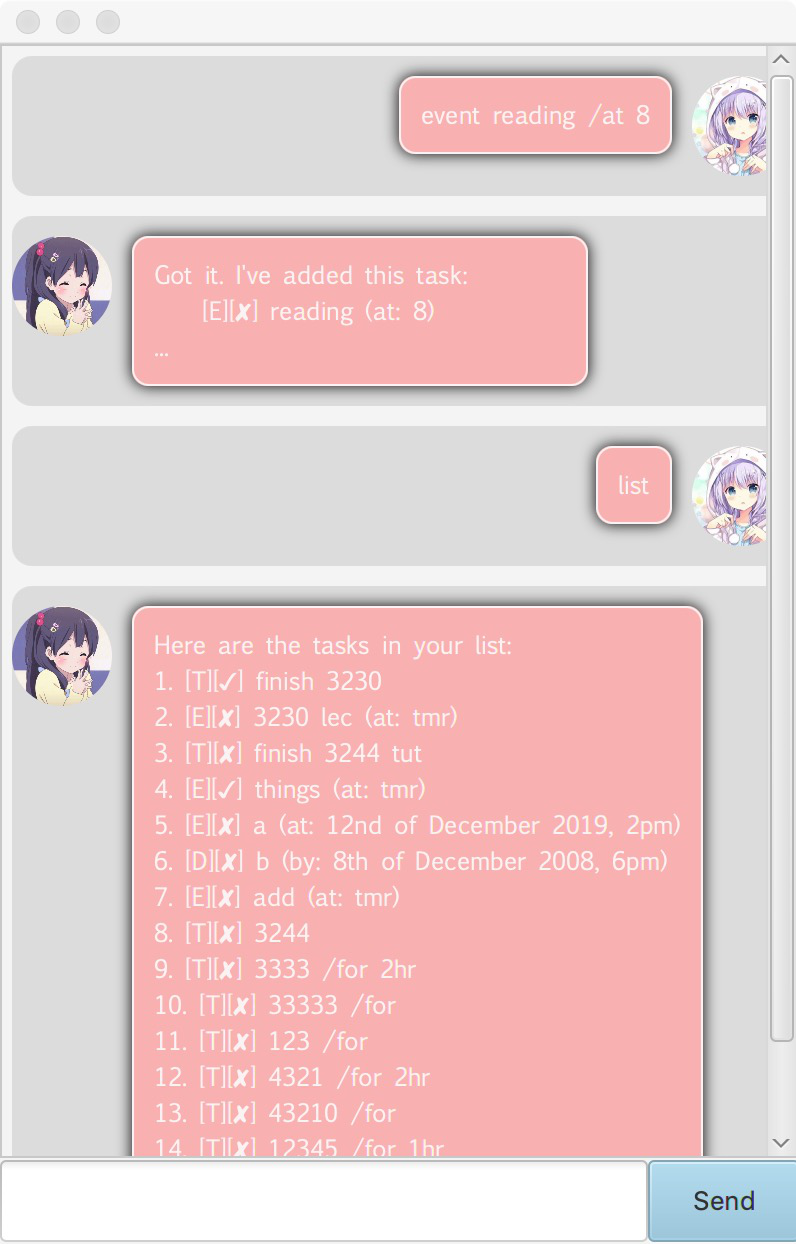
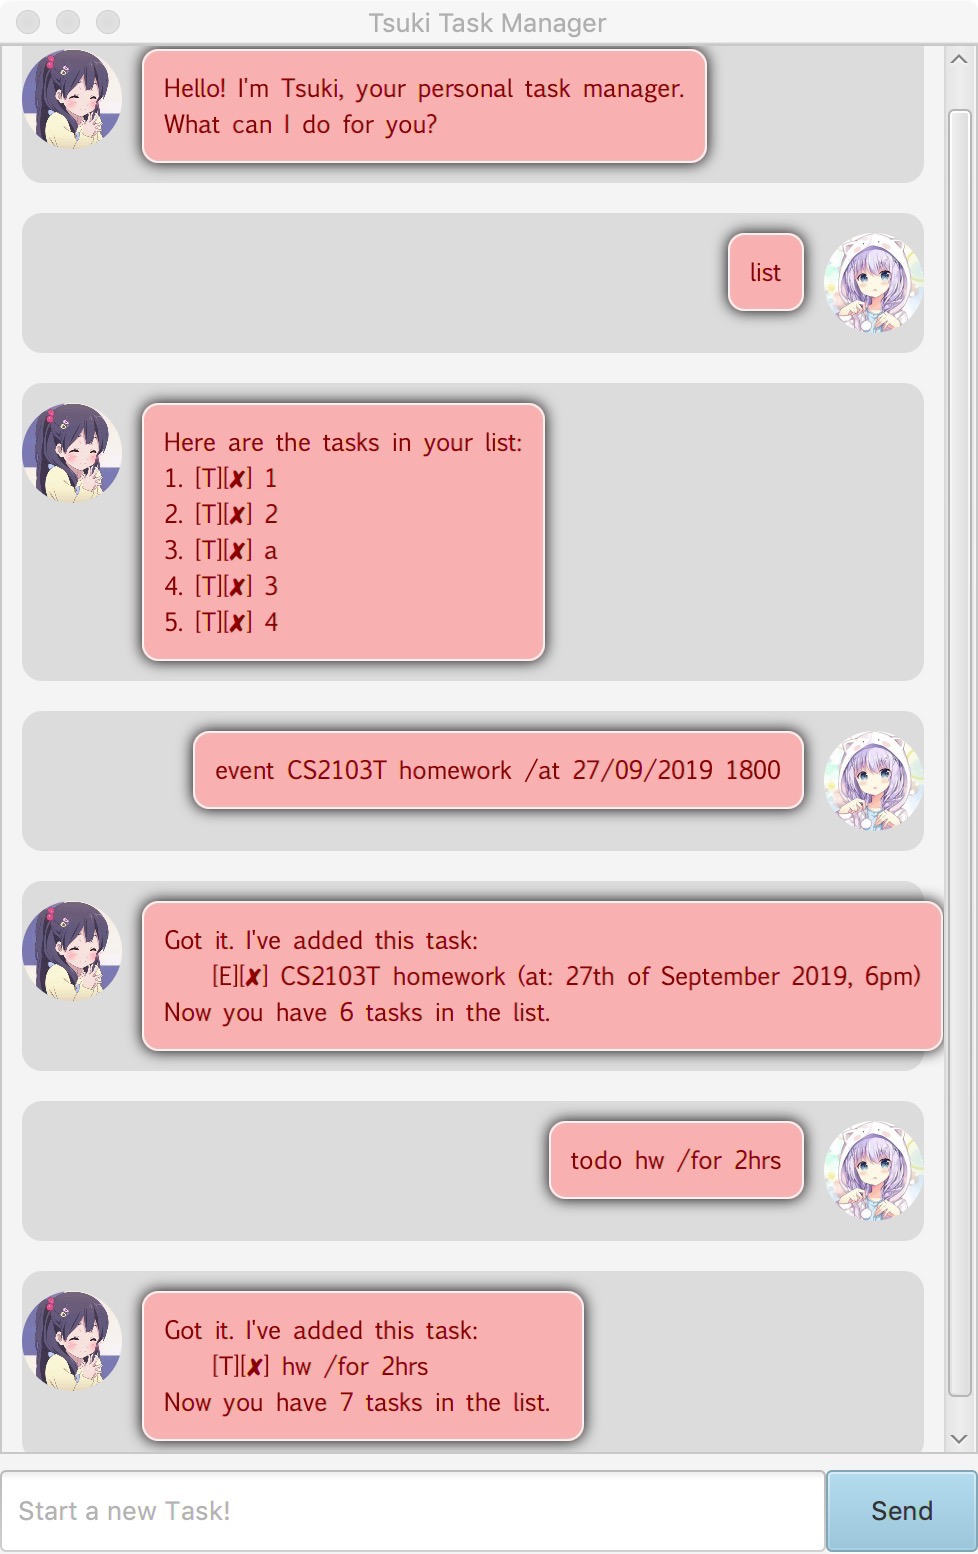
edited time command

diff --git a/src/main/java/dukepkg/Storage.java b/src/main/java/dukepkg/Storage.java
@@ -46,13 +46,15 @@ public class Storage {
         while (s.hasNext()) {
             String line = s.nextLine();
             String[] arr = line.split(" # ");
-            Task t;
+            Task t = null;
             if (arr.length == 3) {
                 t = new Todo(arr[2]);
             } else if (arr[0].equals("D")) {
                 t = new Deadline(arr[2], arr[3]);
-            } else {
+            } else if (arr[0].equals("E")){
                 t = new Event(arr[2], arr[3]);
+            } else if (arr[0].equals("T")){
+                t = new Time(arr[2], arr[3]);
             }
             if (Integer.parseInt(arr[1]) == 1) {
                 t.markDone();
@@ -74,7 +76,7 @@ public class Storage {
             String s = (t instanceof Todo) ? "T # " : ((t instanceof Event) ? "E # " : "D # ");
             s += t.isDone() ? "1 # " : "0 # ";
             s += t.getTask();
-            s += (t instanceof Todo) ? "" : ((t instanceof Event) ? " # " + ((Event) t).getAt() : " # " + ((Deadline) t).getBy());
+            s += t instanceof Todo ? "" : (t instanceof Time) ? " # " + ((Time) t).getDuration() : ((t instanceof Event) ? " # " + ((Event) t).getAt() : " # " + ((Deadline) t).getBy());
 
             fw.write(s + "\n");
         }

diff --git a/src/main/java/dukepkg/commands/Command.java b/src/main/java/dukepkg/commands/Command.java
@@ -40,18 +40,19 @@ public abstract class Command {
                 Parser.validateDeadlineFormat(arr);
                 t = Parser.standardizeDeadlineTime(arr);
                 return new DeadlineCommand(t);
-            } else {
+            } else if(arr[0].equals("event")){
                 Parser.validateEventFormat(arr);
                 t = Parser.standardizeEventTime(arr);
                 return new EventCommand(t);
+            } else if (arr[0].equals("time")) {
+                Parser.validateTimeFormat(arr);
+                t = Parser.constructTimeCommand(arr);
+                return new TimeCommand(t);
             }
-        }
-        if(arr[1].contains("/for")) {
-            Parser.validateTimeFormat(arr);
-            return new TimeCommand(t);
         } else {
             return new TodoCommand(t);
         }
+        return new TodoCommand(t);
     }
 
     /**

diff --git a/src/main/java/dukepkg/Parser.java b/src/main/java/dukepkg/Parser.java
@@ -26,6 +26,13 @@ public class Parser {
 
     }
 
+    public static Task constructTimeCommand(String[] arr) {
+        String[] timed_task = arr[1].trim().split("/for", 2);
+        Task t;
+        t = new Time(timed_task[0].trim(), timed_task[1].trim());
+        return t;
+    }
+
     private String getAction(String[] arr) {
         return arr[0];
     }
@@ -232,6 +239,7 @@ public class Parser {
                 case "todo":
                 case "deadline":
                 case "event":
+                case "time":
                     validateAddTaskCommandLength(arr);
                     return Command.getAddTaskCommand(arr);
                 case "find":

diff --git a/src/main/java/dukepkg/Time.java b/src/main/java/dukepkg/Time.java
@@ -1,0 +1,28 @@
+package dukepkg;
+
+public class Time extends dukepkg.Task{
+    private String duration = "";
+    /**
+     * Instantiates a new Time Task.
+     *
+     * @param task the content used to construct the task.
+     */
+    public Time (String task, String duration) {
+        super(task);
+        this.duration = duration;
+    }
+    /**
+     * Gets the duration within which the task must be done.
+     *
+     * @return the duration
+     */
+    public String getDuration() {
+        return duration;
+    }
+
+    @Override
+    public String toString() {
+        return "[T]" + super.toString() + " (for: " + this.duration + ")";
+    }
+
+}

diff --git a/src/main/java/dukepkg/ui/DialogBox.java b/src/main/java/dukepkg/ui/DialogBox.java
@@ -45,6 +45,7 @@ class DialogBox extends HBox {
         final Circle clip = new Circle(25, 25, 25);
         displayPicture.setClip(clip);
         displayPicture.setImage(img);
+        dialog.setMinSize(Label.USE_PREF_SIZE, Label.USE_PREF_SIZE);
         this.setBackground(new Background(new BackgroundFill(
                 Color.gray(0.865), new CornerRadii(10), new Insets(5, 5, 5, 5))));
         this.setSpacing(10);

diff --git a/docs/README.md b/docs/README.md
@@ -1,12 +1,15 @@
 # User Guide
+
 ## 1. Introduction
-Hi! Duke is a high school themed app that helps you organize your tasks, ranging from todos, events to deadlines. Specifically, Duke is optimized for those who prefer to work with a Command Line Interface (CLI) while still enjoys a pleasant Graphical User Interface (GUI). If you can type comfortably fast, Duke can get your bucket list management more lightweight and fun than traditional GUI apps. Interested? Jump to the section 2, `Quick Start` to get started.
+Hi! Tsuki Task Manager is a girl's school themed app that helps you organize your tasks, ranging from todos, events to deadlines. Specifically, Duke is optimized for those who prefer to work with a Command Line Interface (CLI) while still enjoys a pleasant Graphical User Interface (GUI). If you can type comfortably fast, Duke can get your bucket list management more lightweight and fun than traditional GUI apps. Interested? Jump to the section 2, `Quick Start` to get started.
+
+![Sample usage](Ui.png)
 
 ## 2. Quick Start
 1. Ensure you have Java `11` or above installed in your computer.
-2. Download the latest `duke-zj-0.2.0.jar` here.
+2. Download the latest `tsuki.jar` here.
 3. Copy the file to the folder you want to use as the home folder for your duke task manager.
-4. Open the terminal and type `java -jar duke-zj-0.2.0.jar` to start the app. The GUI should appear in a few seconds.
+4. Open the terminal and type `java -jar tsuki.jar` to start the app. The GUI should appear in a few seconds.
 5. Type the command in the command box and press `Enter` to execute it. <br />
   e.g. typing  `list` and pressing `Enter` will list all the current task stored in the database.
 
@@ -37,7 +40,20 @@ Got it! I've added this task:
 Now you have 1 task in the list.
 ```
 
-### 3.2 `deadline <task_content> /by <time>` - add an deadline
+### 3.2 `time <task_content> /for <duration>` - add an timed task
+Add a task that needs to be finished within the speculated time limit.
+
+Example of usage:
+`time website design /for 2hrs`
+
+Expected outcome:
+```
+Got it! I've added this task:
+   [T][x] website design (for: 2hrs)
+Now you have 1 task in the list.
+```
+
+### 3.3 `deadline <task_content> /by <time>` - add an deadline
 
 Add an deadline task into task manager.
 
@@ -67,7 +83,7 @@ Got it! I've added this task:
 Now you have 3 tasks in the list.
 ```
 
-### 3.3 `event` - add an event
+### 3.4 `event` - add an event
 
 Add an upcoming event.
 
@@ -97,7 +113,7 @@ Got it! I've added this task:
 Now you have 3 tasks in the list.
 ```
 
-### 3.4 `done <Task_ID>` - mark a task as finished
+### 3.5 `done <Task_ID>` - mark a task as finished
 
 Mark a task as finished.
 
@@ -110,7 +126,7 @@ Nice! I've marked this task as done:
   [D][] shower (by: tonight)
 ```
 
-### 3.5 `delete <Task_ID>` - delete a task
+### 3.6 `delete <Task_ID>` - delete a task
 
 Delete a task by number.
 
@@ -123,7 +139,7 @@ Noted. I've removed this task:
   [D][x] shower (by: tonight)
 Now you have 2 tasks in the list.
 ```
-### 3.6 `list` - list out all available tasks
+### 3.7 `list` - list out all available tasks
 Output a list of commands that are currently stored in the database.
 
 Example of usage:
@@ -139,7 +155,7 @@ Or, if there is nothing in the list yet:
 
 `Your task list is empty.`
 
-### 3.7 `find <keyword>` - find tasks by keyword
+### 3.8 `find <keyword>` - find tasks by keyword
 
 Find tasks that matches the keywords you enter. Can use more than 1 keyword.
 
@@ -156,7 +172,7 @@ Or, if there is no tasks find:
 
 `Oops, no matching task.`
 
-### 3.8 `bye` - quit
+### 3.9 `bye` - quit
 
 Quit the app.
 
